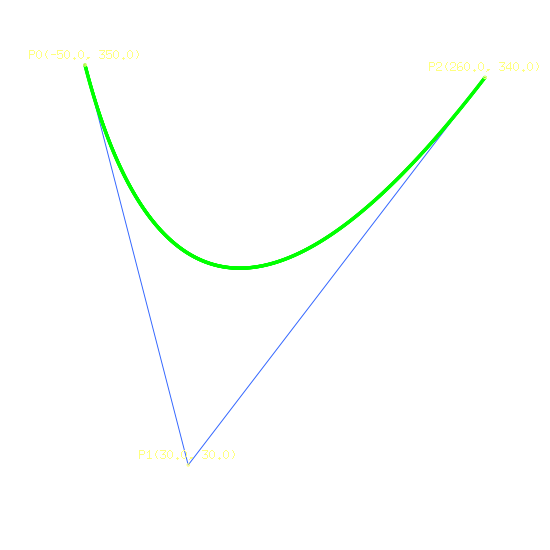
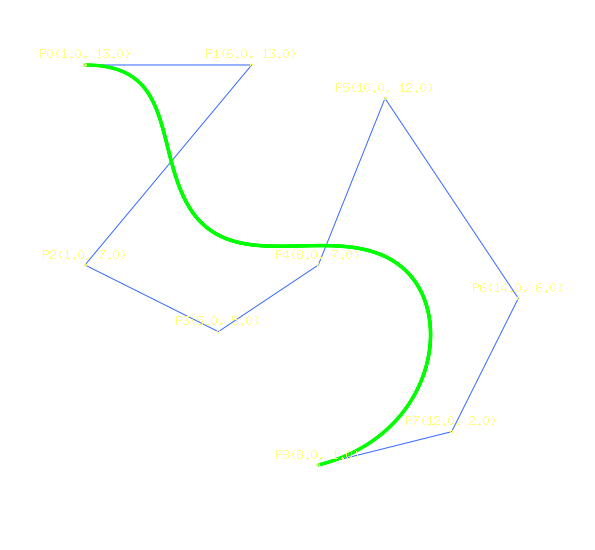
feat: add test

diff --git a/bezier.go b/bezier.go
@@ -4,6 +4,7 @@ import (
 	"fmt"
 	"math"
 	"strconv"
+	"time"
 
 	"github.com/fogleman/gg"
 )
@@ -104,6 +105,25 @@ func getRatioPoint(p0, p1, p2 Point, ratio float64) Point {
 	return Point{end_x, end_y}
 }
 
+// func getRatioPoint4(p0, p1, p2, p3 Point, ratio float64) Point {
+// 	r1 := getRatioPoint(p0, p1, p2, ratio)
+// 	r2 := getRatioPoint(p1, p2, p3, ratio)
+// 	end_x := (1-ratio)*r1.x + ratio*r2.x
+// 	end_y := (1-ratio)*r1.y + ratio*r2.y
+// 	return Point{end_x, end_y}
+// }
+
+// func (points BezierPoints) findCurveBruteForce4() BezierPoints {
+// 	add := 0.01
+// 	curve := BezierPoints{}
+// 	curve.insertLast(points.list[0])
+// 	for i := 1; i < 100; i++ {
+// 		curve.insertLast(getRatioPoint4(points.list[0], points.list[1], points.list[2], points.list[3], float64(i)*(add)))
+// 	}
+// 	curve.insertLast(points.list[2])
+// 	return curve
+// }
+
 func (points BezierPoints) findCurveBruteForce() BezierPoints {
 	add := 0.01
 	curve := BezierPoints{}
@@ -159,6 +179,14 @@ func getPreferredDimension(corner BezierPoints) (int, int, float64, float64, flo
 		pref_y = 550
 	} else if dy > 515 {
 		pref_y = int(dy) + 170
+	}
+
+	if r_x > r_y {
+		pref_y = int(r_x * float64(pref_y) / r_y)
+		r_y = r_x
+	} else if r_y > r_x {
+		pref_x = int(r_y * float64(pref_x) / r_x)
+		r_x = r_y
 	}
 
 	add_x = 85 - min_x*r_x
@@ -245,20 +273,27 @@ func drawSketchBruteForce(points, corner BezierPoints) {
 }
 
 func main() {
-	point1 := Point{-50, 350}
-	point2 := Point{30, 30}
-	point3 := Point{260, 340}
+	// point1 := Point{-50, 350}
+	// point2 := Point{30, 30}
+	// point3 := Point{260, 340}
 	// point4 := Point{360, 189}
 	// point5 := Point{230, 110}
 	// point6 := Point{430, 50}
 	// point7 := Point{550, 190}
 	// point8 := Point{445, 300}
-	points := BezierPoints{}
-	points.insertLast(point1, point2, point3)
+	start := time.Now()
+	points := BezierPoints{[]Point{{165, 615}, {265, 115}, {765, 115}}, 3}
+	// points.insertLast(point1, point2, point3)
 	// points.insertLast(point1, point2, point3, point4, point5, point6, point7, point8)
-	curveDnC := points.findCurve(10)
-	curveBF := points.findCurveBruteForce()
 
-	drawSketch(curveDnC, points, 10)
+	points2 := BezierPoints{[]Point{{1, 13}, {6, 13}, {1, 7}, {5, 5}, {8, 7}, {10, 12}, {14, 6}, {12, 2}, {8, 1}}, 9}
+	// fmt.Println(points2)
+
+	curveDnC := points2.findCurve(12)
+	curveBF := points.findCurveBruteForce()
+	elapsedTime := time.Since(start)
+
+	fmt.Println("Elapsed time: ", elapsedTime.Seconds())
+	drawSketch(curveDnC, points2, 12)
 	drawSketchBruteForce(curveBF, points)
 }
